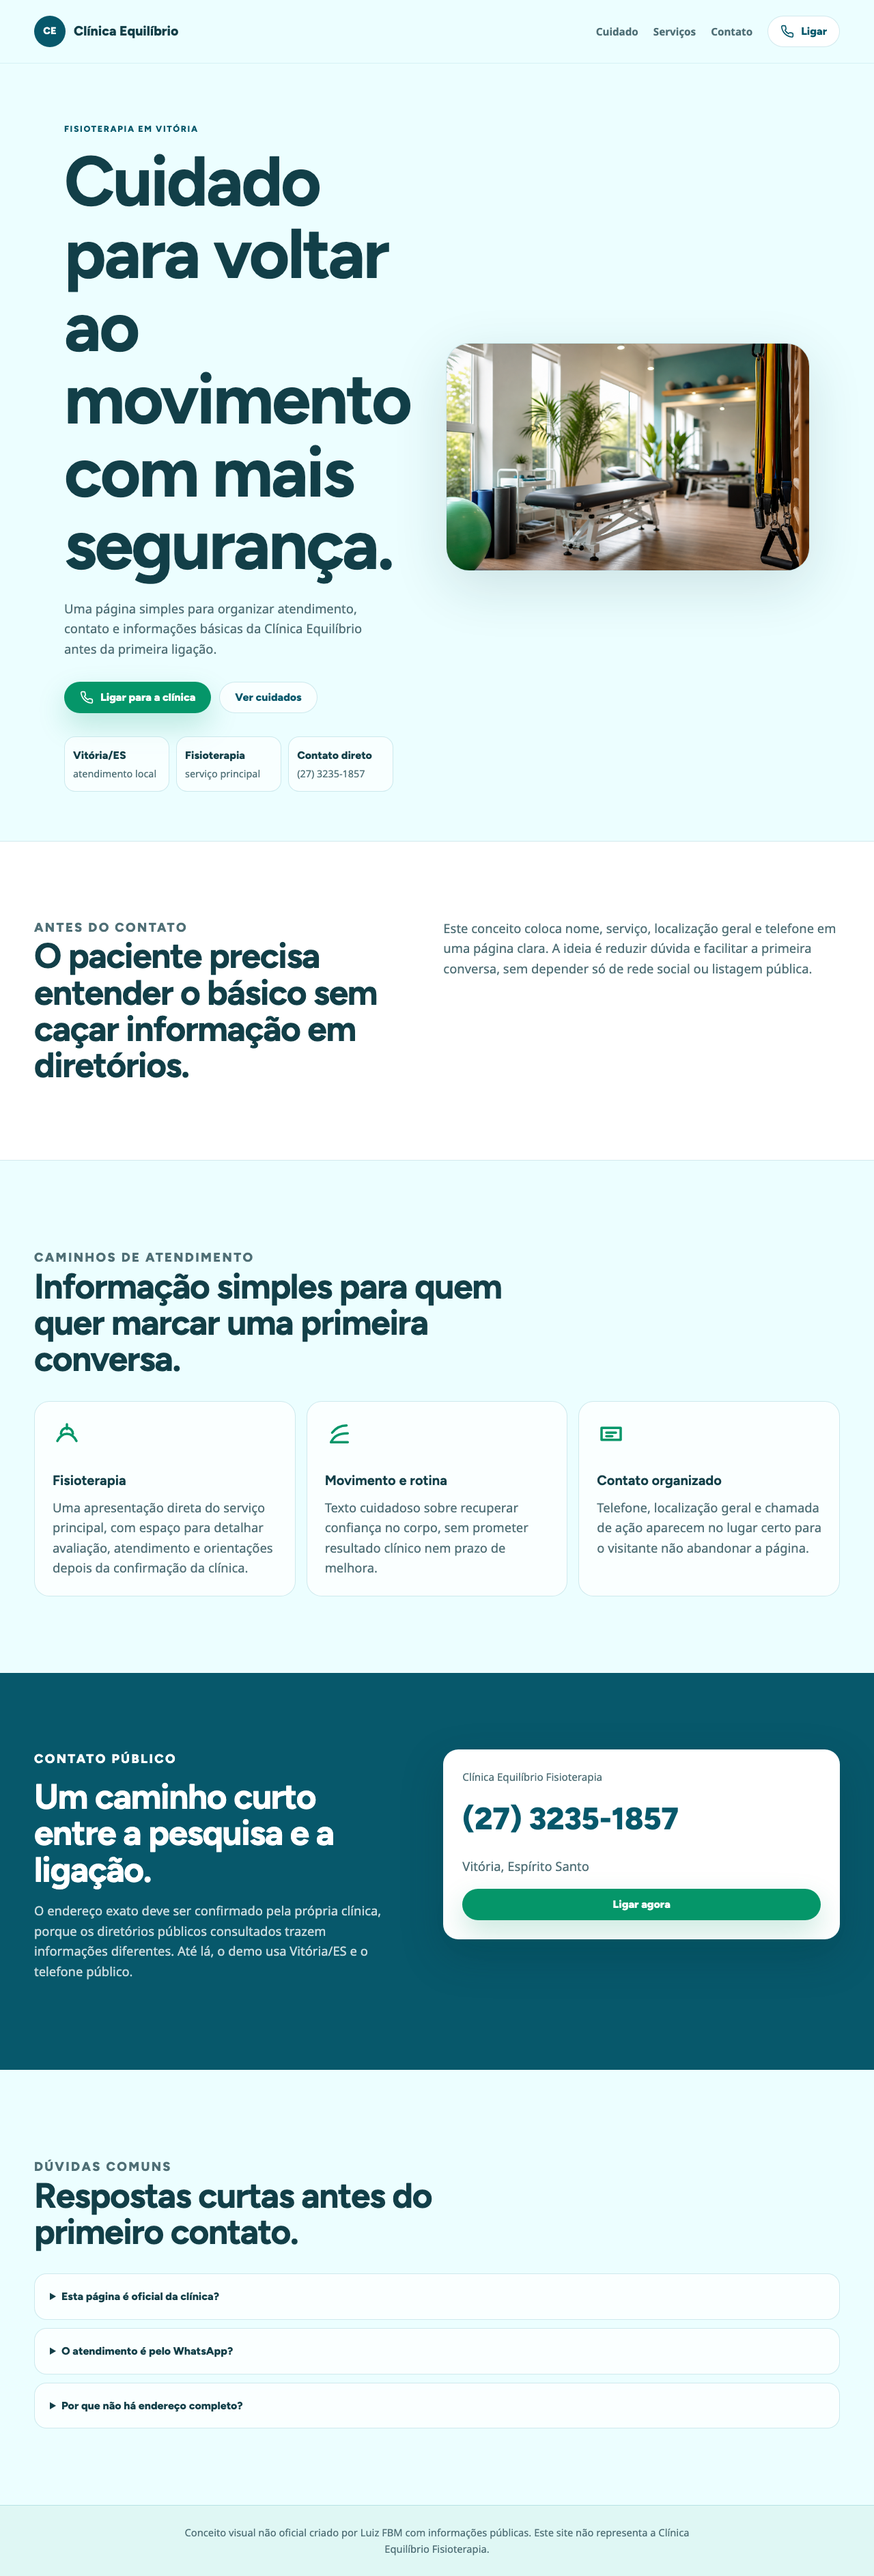
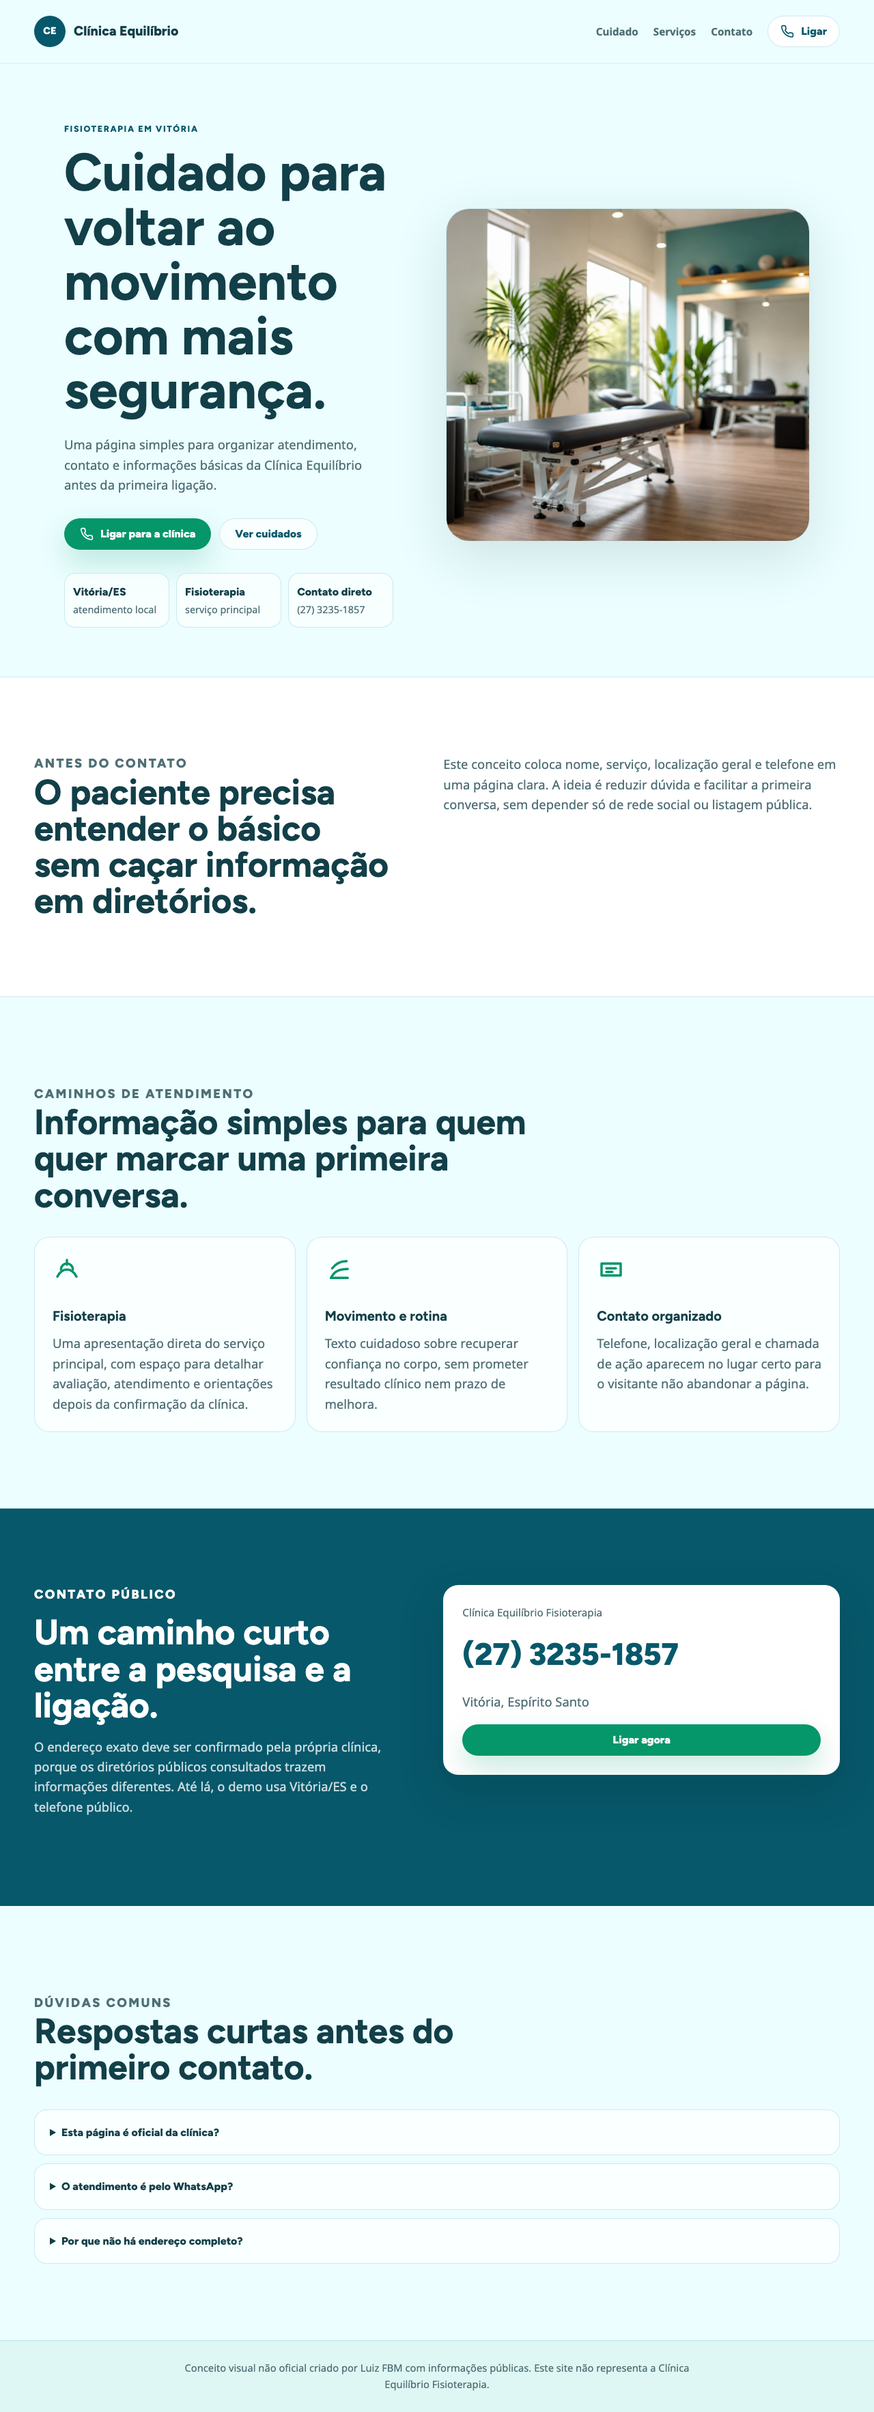
Tune desktop demo hero layouts

diff --git a/demos/clinica-equilibrio-fisioterapia/styles.css b/demos/clinica-equilibrio-fisioterapia/styles.css
@@ -213,17 +213,16 @@ h3 {
   font-family: "Figtree", Arial, sans-serif;
   line-height: 1.04;
   color: var(--ink);
+  letter-spacing: 0;
 }
 
 h1 {
   max-width: 12ch;
-  font-size: clamp(3rem, 8vw, 6.4rem);
-  letter-spacing: -0.03em;
+  font-size: clamp(2.85rem, 6vw, 5.2rem);
 }
 
 h2 {
   font-size: clamp(2rem, 4vw, 4rem);
-  letter-spacing: -0.025em;
 }
 
 h3 {
@@ -309,6 +308,7 @@ h3 {
 }
 
 .hero-visual {
+  align-self: center;
   border: 1px solid var(--line);
   border-radius: 34px;
   background: rgba(255, 255, 255, 0.5);
@@ -318,8 +318,9 @@ h3 {
 
 .hero-visual img {
   width: 100%;
-  aspect-ratio: 16 / 10;
+  height: clamp(420px, 38vw, 540px);
   object-fit: cover;
+  object-position: center;
 }
 
 .section {
@@ -513,6 +514,11 @@ details p {
 
   .hero {
     min-height: auto;
+  }
+
+  .hero-visual img {
+    height: auto;
+    aspect-ratio: 16 / 10;
   }
 
   .service-grid {

diff --git a/demos/coi-odontologia/styles.css b/demos/coi-odontologia/styles.css
@@ -212,12 +212,12 @@ h3 {
   font-family: "Figtree", Arial, sans-serif;
   color: var(--ink);
   line-height: 1.05;
-  letter-spacing: -0.02em;
+  letter-spacing: 0;
 }
 
 h1 {
-  max-width: 13ch;
-  font-size: clamp(2.9rem, 7vw, 6.2rem);
+  max-width: 16ch;
+  font-size: clamp(2.75rem, 4.6vw, 4.2rem);
 }
 
 h2 {
@@ -280,6 +280,7 @@ h3 {
 }
 
 .hero-media {
+  align-self: center;
   border: 2px solid var(--line);
   border-radius: var(--radius);
   background: var(--soft);
@@ -288,8 +289,9 @@ h3 {
 
 .hero-media img {
   width: 100%;
-  aspect-ratio: 16 / 10;
+  height: clamp(380px, 36vw, 500px);
   object-fit: cover;
+  object-position: center;
 }
 
 .section {
@@ -509,6 +511,11 @@ details p {
   .split,
   .contact-grid {
     grid-template-columns: 1fr;
+  }
+
+  .hero-media img {
+    height: auto;
+    aspect-ratio: 16 / 10;
   }
 
   .faq-grid {
